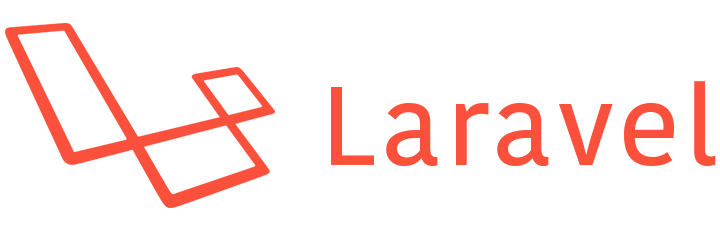
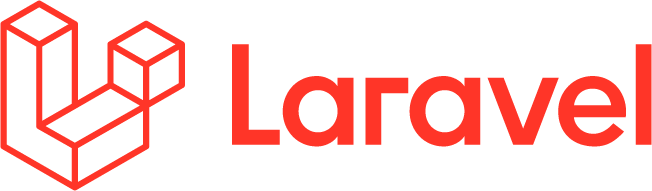
Sync #ab505a66 (#1170)
* Add VueSchool Summer Sale banner (#2829)

* Add VueSchool Summer Sale banner

* Update VueSchool Summer Sale banner

* chore: update partner contact

* Update Laravel logo (#2837)

* Update Vue School banner (#2836)

* chore: update sponsors (#2840)

* Remove Vue School Summer Sale banner (#2842)

* Remove Vue School Summer Sale banner

* Remove Vue School banner images

* chore: update sponsor name and image

* Update dockerize-vuejs-app.md (#2843)

just a small typo

* Add Freya to PrimeVue templates (#2819)

* chore: update sponsors (#2844)

* chore: update sponsors (#2846)

* feat: added cursor pointer (#2848)

This fixes issue #2826

Changed region(s): [[0.0, 0.0, 1.0, 1.0]]

diff --git a/themes/vue/source/js/theme-data.js b/themes/vue/source/js/theme-data.js
@@ -141,9 +141,16 @@ var themeData = [
   },
   {
     name: 'PrimeVue',
-    description: `The open-source UI component library [PrimeVue](https://www.primefaces.org/primevue/#/?af_id=4218) offers over 50 flexible components to build your apps with! They have a ton of different component themes and Vue-CLI application templates available to get the look&feel that suits you best.`,
+    description: `The open-source UI component library [PrimeVue](https://www.primefaces.org/primevue/#/?af_id=4218) offers over 80 flexible components to build your apps with! They have a ton of different component themes and Vue-CLI application templates available to get the look&feel that suits you best.`,
     seeMoreUrl: 'https://www.primefaces.org/primevue/#/?af_id=4218',
     products: [
+      {
+        name: 'Freya',
+        price: 59,
+        description: 'Premium Admin Template',
+        url: 'https://www.primefaces.org/layouts/freya-vue?af_id=4218',
+        image: 'https://www.primefaces.org/vue-templates/freya.jpg'
+      },
       {
         name: 'Diamond',
         price: 59,

diff --git a/themes/vue/source/js/common.js b/themes/vue/source/js/common.js
@@ -260,6 +260,24 @@
   }
 
   /**
+   * Banner closing
+   */
+  function initVueSchoolBanner () {
+    const banner = document.getElementById('vs')
+    if (banner && !localStorage.getItem('VS_SUMMER_BANNER_CLOSED')) {
+      banner.classList.remove('vs-hidden')
+      document.body.classList.add('has-vs-banner')
+      document.getElementById('vs-close').addEventListener('click', function (e) {
+        e.preventDefault()
+        e.stopPropagation()
+        document.getElementById('vs').remove()
+        document.body.classList.remove('has-vs-banner')
+        localStorage.setItem('VS_SUMMER_BANNER_CLOSED', 1)
+      })
+    }
+  }
+
+  /**
   * Modal Video Player
   */
   function initVideoModal () {

diff --git a/src/v2/cookbook/dockerize-vuejs-app.md b/src/v2/cookbook/dockerize-vuejs-app.md
@@ -121,7 +121,7 @@ So, delivering our Vue.js app as a Docker image helps reducing, if not removing 
 
 ### Effects of Continuous Delivery
 
-By leveraging the [Continuous Delivery](https://martinfowler.com/bliki/ContinuousDelivery.html) discipline we build our software in a way that it can potentially be released to production at any time. Such engineering practice is enabled by means of what is normally called [continuous delivery pipeline](https://martinfowler.com/bliki/DeploymentPipeline.html). The purpose of a continuous delivery pipeline is to split our build into stages (e.g. compilation, unit tests, integration tests, performance tests, etc.) and let each stage verify our build artifact whenever our software changes. Ultimately, each stage increases our confidence in the production readiness of our build artifact and, therefore, reduces the risk of breaking things in production (or any other environment for that matters).
+By leveraging the [Continuous Delivery](https://martinfowler.com/bliki/ContinuousDelivery.html) discipline we build our software in a way that it can potentially be released to production at any time. Such engineering practice is enabled by means of what is normally called [continuous delivery pipeline](https://martinfowler.com/bliki/DeploymentPipeline.html). The purpose of a continuous delivery pipeline is to split our build into stages (e.g. compilation, unit tests, integration tests, performance tests, etc.) and let each stage verify our build artifact whenever our software changes. Ultimately, each stage increases our confidence in the production readiness of our build artifact and, therefore, reduces the risk of breaking things in production (or any other environment for that matter).
 
 So, creating a Docker image for our Vue.js app is a good choice here because that would represent our final build artifact, the same artifact that would be verified against our continuous delivery pipeline and that could potentially be released to production with confidence.
 
